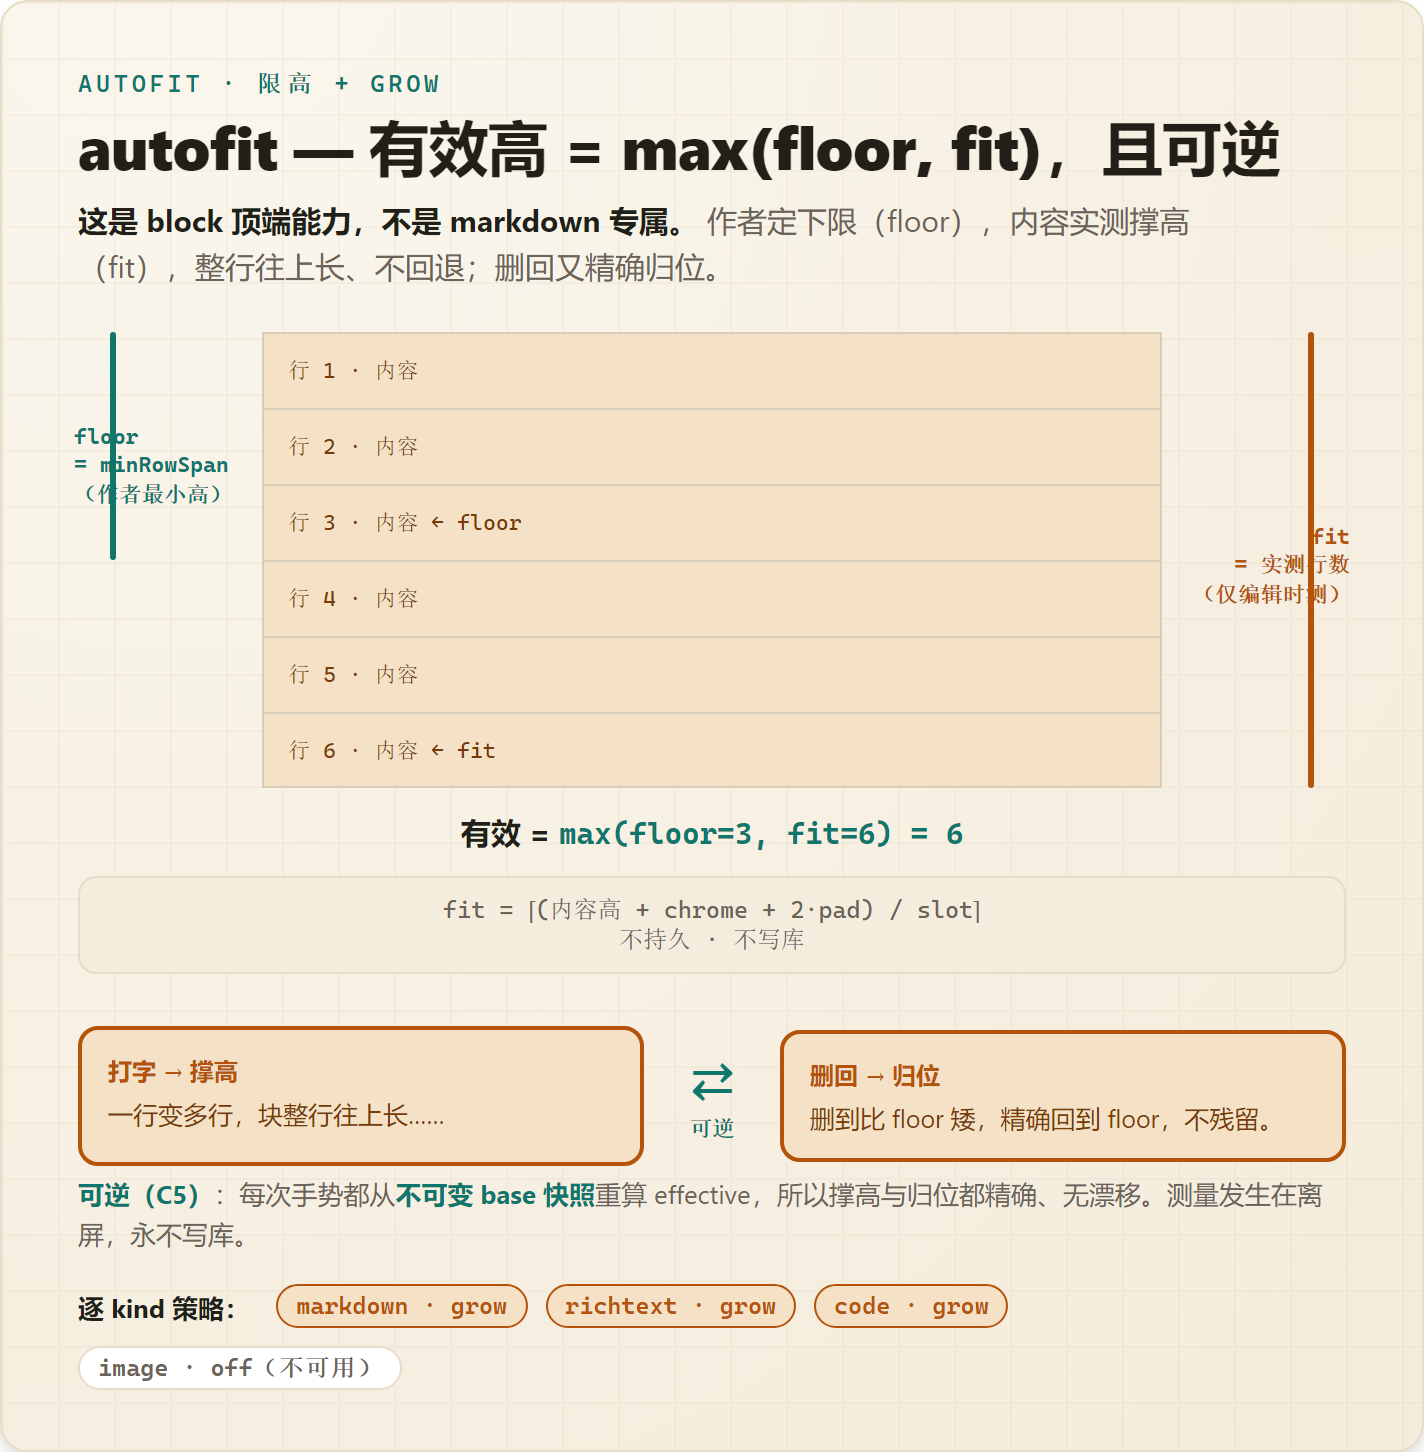
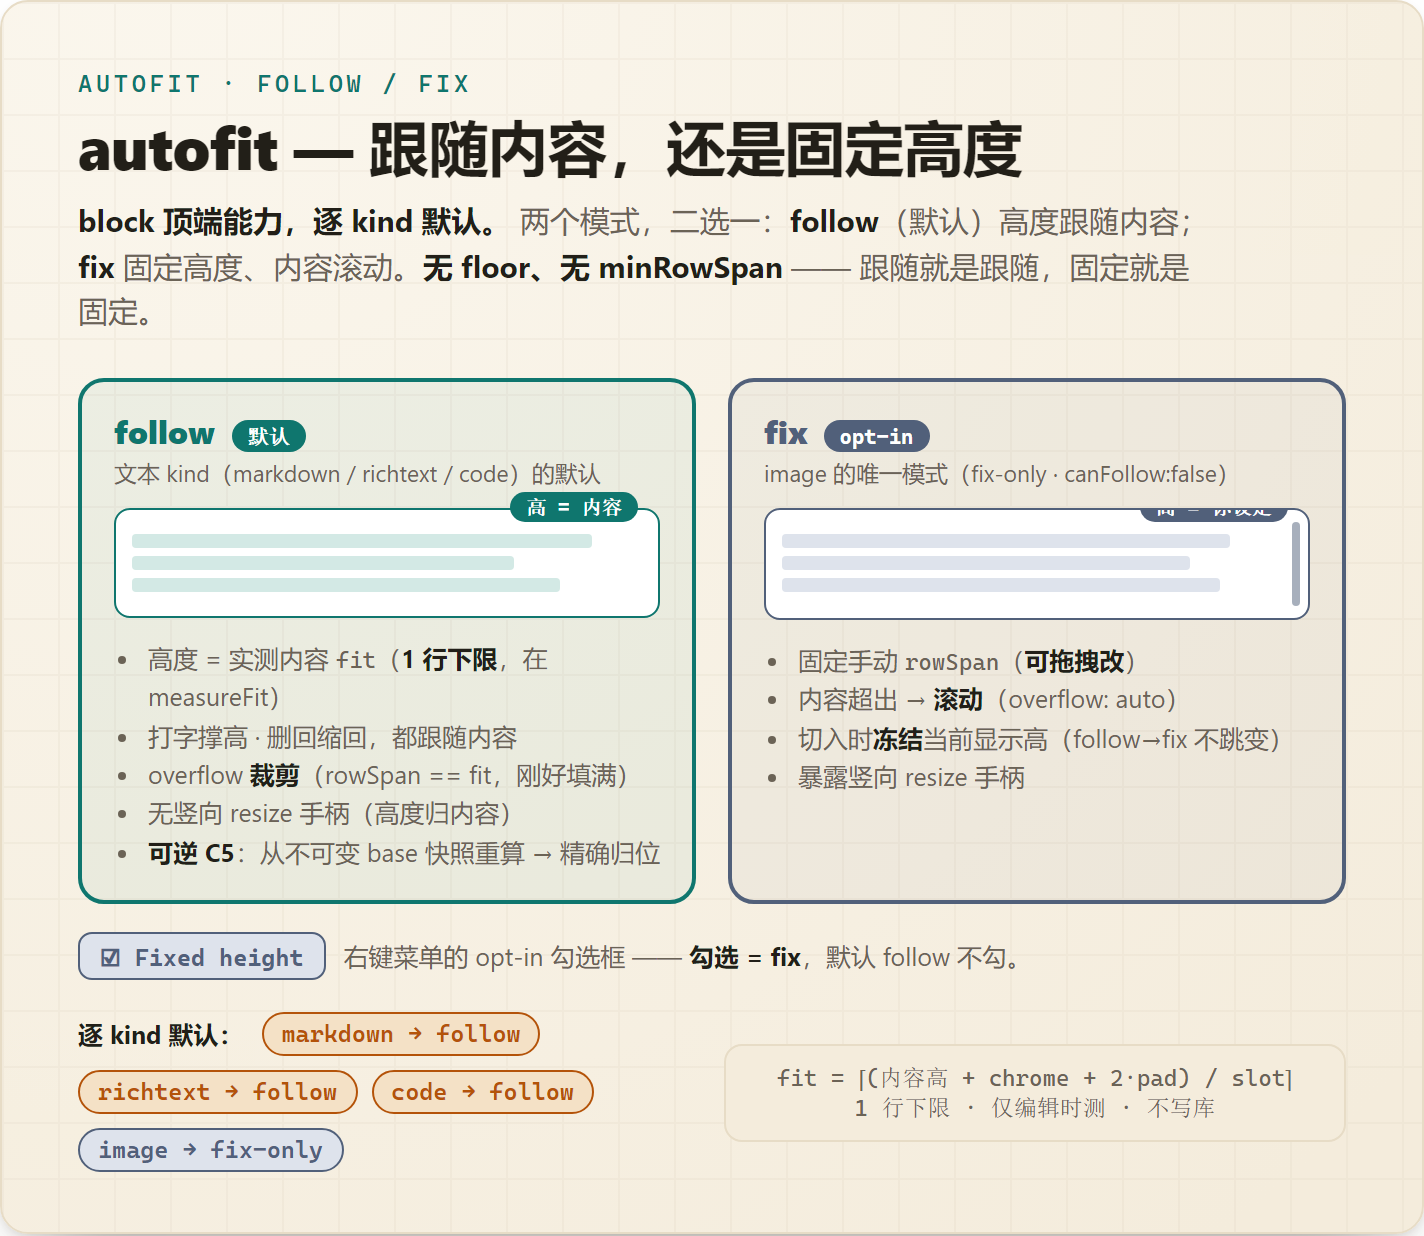
docs(devlib): block-system autofit figure → follow/fix model
The 块系统·抽象逻辑 doc still depicted the deleted floor model
(max(floor,fit) / minRowSpan / image=off · 文本=grow). Redesign figure ③
around the two-mode model: follow (default, height tracks content, 1-row
min, no floor, clips, reversible C5) vs fix (opt-in, fixed manual height,
drag-resizable, scrolls; image fix-only), with the "Fixed height" opt-in
toggle and per-kind defaults. Update the tradeoff figure's autofit row +
sample line + the fig③ alt to match. Re-rendered + reseeded the dev库.

diff --git a/tools/block-doc-art/src/03-autofit.html b/tools/block-doc-art/src/03-autofit.html
@@ -5,79 +5,101 @@
   <link rel="stylesheet" href="../art.css" />
   <style>
     #art { width: 712px; }
-    .stage { display: grid; grid-template-columns: 1fr; gap: 26px; margin-top: 22px; align-items: start; }
+    .modes { display: grid; grid-template-columns: 1fr 1fr; gap: 16px; margin-top: 22px; align-items: stretch; }
+    .mode { border-radius: 13px; border: 2px solid; padding: 14px 16px; display: flex; flex-direction: column; }
+    .mode.follow { border-color: var(--host); background: rgba(15,118,110,.05); }
+    .mode.fix { border-color: var(--canv); background: rgba(81,96,122,.05); }
+    .mh { display: flex; align-items: baseline; gap: 8px; font-weight: 800; font-size: 16px; margin-bottom: 3px; }
+    .mode.follow .mh { color: var(--host); } .mode.fix .mh { color: var(--canv); }
+    .mh .tag { font-family: var(--mono); font-size: 10.5px; font-weight: 700; padding: 2px 8px; border-radius: 999px; }
+    .mode.follow .tag { background: var(--host); color: #fff; } .mode.fix .tag { background: var(--canv); color: #fff; }
+    .msub { font-size: 11.5px; color: var(--ink-soft); margin-bottom: 10px; }
 
-    /* left: a grid-row ruler showing floor / fit / effective */
-    .ruler { position: relative; padding-left: 92px; padding-right: 92px; }
-    .row { height: 38px; border: 1px solid var(--hair); border-bottom: none; background: rgba(255,255,255,.5); display: flex; align-items: center; padding-left: 12px; font-family: var(--mono); font-size: 11px; color: var(--ink-faint); }
-    .row:last-child { border-bottom: 1px solid var(--hair); }
-    .row.filled { background: var(--kind-soft); color: #7a3a06; }
-    .brk { position: absolute; width: 22px; }
-    .brk .line { position: absolute; top: 0; bottom: 0; width: 3px; border-radius: 3px; }
-    .brk .lab { position: absolute; font-family: var(--mono); font-size: 11px; font-weight: 700; white-space: nowrap; }
-    .brk.floor { left: 0; top: 0; height: 114px; }
-    .brk.floor .line { left: 16px; background: var(--host); }
-    .brk.floor .lab { left: -2px; top: 46px; width: 84px; color: var(--host); text-align: left; line-height: 1.3; }
-    .brk.fit { right: 0; top: 0; height: 228px; }
-    .brk.fit .line { right: 16px; background: var(--kind); }
-    .brk.fit .lab { right: -2px; top: 96px; width: 84px; color: var(--kind); text-align: right; line-height: 1.3; }
-    .eff { margin-top: 12px; text-align: center; font-weight: 800; font-size: 15px; color: var(--ink); }
-    .eff .mono { color: var(--host); }
-    .formula { margin-top: 12px; font-family: var(--mono); font-size: 12px; color: var(--ink-soft); text-align: center; background: var(--paper-2); border: 1px solid var(--edge); border-radius: 9px; padding: 9px; }
+    /* schematic block: follow hugs content; fix is a fixed window that scrolls */
+    .demo { border-radius: 8px; padding: 8px; background: #fff; margin-bottom: 11px; position: relative; }
+    .mode.follow .demo { border: 1.5px solid var(--host); }
+    .mode.fix .demo { border: 1.5px solid var(--canv); height: 56px; overflow: hidden; }
+    .ln { height: 7px; border-radius: 2px; margin: 4px 0; }
+    .mode.follow .ln { background: var(--host-soft); }
+    .mode.fix .ln { background: var(--canv-soft); }
+    .demo .badge { position: absolute; top: -9px; right: 10px; font-family: var(--mono); font-size: 10px; font-weight: 700; padding: 2px 8px; border-radius: 999px; }
+    .mode.follow .badge { background: var(--host); color: #fff; }
+    .mode.fix .badge { background: var(--canv); color: #fff; }
+    .mode.fix .demo .scroll { position: absolute; top: 6px; right: 4px; bottom: 6px; width: 4px; border-radius: 3px; background: var(--canv); opacity: .5; }
+    .mode.fix .demo .clip { position: absolute; left: 8px; right: 14px; bottom: 0; height: 13px; background: linear-gradient(to top, #fff, transparent); }
 
-    /* right: reversible grow / shrink */
-    .states { display: flex; flex-direction: column; gap: 14px; }
-    .twin { display: grid; grid-template-columns: 1fr 56px 1fr; align-items: center; gap: 6px; }
-    .blk { border: 2px solid var(--kind); border-radius: 10px; background: var(--kind-soft); padding: 11px 13px; font-size: 12.5px; line-height: 1.5; color: #7a3a06; }
-    .blk.small { height: 70px; overflow: hidden; }
-    .blk .t { font-weight: 800; color: var(--kind); display: block; margin-bottom: 4px; font-size: 12px; }
-    .loop { text-align: center; color: var(--host); font-family: var(--mono); font-size: 11px; font-weight: 700; line-height: 1.3; }
-    .loop .big { font-size: 26px; display: block; }
-    .c5 { margin-top: 4px; font-size: 13px; color: var(--ink-soft); line-height: 1.5; }
-    .c5 b { color: var(--host); }
-    .policy { margin-top: 16px; display: flex; flex-wrap: wrap; gap: 9px; align-items: center; }
-    .policy .h { font-size: 13px; font-weight: 700; margin-right: 4px; }
+    ul.feat { margin: 0; padding-left: 17px; font-size: 12.5px; line-height: 1.55; color: var(--ink-soft); flex: 1; }
+    ul.feat b { color: var(--ink); }
+    ul.feat .mono { font-family: var(--mono); font-size: 11.5px; }
+
+    .strip { margin-top: 16px; display: grid; grid-template-columns: 1fr 1fr; gap: 12px; align-items: center; }
+    .kinds { display: flex; flex-wrap: wrap; gap: 7px; align-items: center; }
+    .kinds .h { font-size: 12.5px; font-weight: 700; margin-right: 2px; }
+    .formula { font-family: var(--mono); font-size: 11.5px; color: var(--ink-soft); background: var(--paper-2); border: 1px solid var(--edge); border-radius: 9px; padding: 9px 12px; text-align: center; }
+    .toggle { margin-top: 14px; display: flex; align-items: center; gap: 9px; font-size: 12.5px; color: var(--ink-soft); }
+    .toggle .box { font-family: var(--mono); font-size: 12px; font-weight: 700; color: var(--canv); border: 1.5px solid var(--canv); background: var(--canv-soft); border-radius: 7px; padding: 3px 10px; }
+    .toggle b { color: var(--ink); }
   </style>
 </head>
 <body>
   <div id="art" class="card">
-    <div class="eyebrow">Autofit · 限高 + grow</div>
-    <h1 class="t">autofit — 有效高 = max(floor, fit)，且可逆</h1>
-    <p class="lede"><b>这是 block 顶端能力，不是 markdown 专属。</b> 作者定下限（floor），内容实测撑高（fit），整行往上长、不回退；删回又精确归位。</p>
+    <div class="eyebrow">Autofit · follow / fix</div>
+    <h1 class="t">autofit — 跟随内容，还是固定高度</h1>
+    <p class="lede"><b>block 顶端能力，逐 kind 默认。</b> 两个模式，二选一：<b>follow</b>（默认）高度跟随内容；<b>fix</b> 固定高度、内容滚动。<b>无 floor、无 minRowSpan</b> —— 跟随就是跟随，固定就是固定。</p>
 
-    <div class="stage">
-      <div>
-        <div class="ruler">
-          <div class="brk floor"><div class="line"></div><div class="lab">floor<br>= minRowSpan<br>（作者最小高）</div></div>
-          <div class="brk fit"><div class="line"></div><div class="lab">fit<br>= 实测行数<br>（仅编辑时测）</div></div>
-          <div class="row filled">行 1 · 内容</div>
-          <div class="row filled">行 2 · 内容</div>
-          <div class="row filled">行 3 · 内容 ← floor</div>
-          <div class="row filled">行 4 · 内容</div>
-          <div class="row filled">行 5 · 内容</div>
-          <div class="row filled">行 6 · 内容 ← fit</div>
+    <div class="modes">
+      <div class="mode follow">
+        <div class="mh">follow <span class="tag">默认</span></div>
+        <div class="msub">文本 kind（markdown / richtext / code）的默认</div>
+        <div class="demo">
+          <span class="badge">高 = 内容</span>
+          <div class="ln" style="width:90%"></div>
+          <div class="ln" style="width:75%"></div>
+          <div class="ln" style="width:84%"></div>
         </div>
-        <div class="eff">有效 = <span class="mono">max(floor=3, fit=6) = 6</span></div>
-        <div class="formula">fit = ⌈(内容高 + chrome + 2·pad) / slot⌉<br>不持久 · 不写库</div>
+        <ul class="feat">
+          <li>高度 = 实测内容 <span class="mono">fit</span>（<b>1 行下限</b>，在 measureFit）</li>
+          <li>打字撑高 · 删回缩回，都跟随内容</li>
+          <li>overflow <b>裁剪</b>（rowSpan == fit，刚好填满）</li>
+          <li>无竖向 resize 手柄（高度归内容）</li>
+          <li><b>可逆 C5</b>：从不可变 base 快照重算 → 精确归位</li>
+        </ul>
       </div>
 
-      <div>
-        <div class="states">
-          <div class="twin">
-            <div class="blk small"><span class="t">打字 → 撑高</span>一行变多行，块整行往上长……</div>
-            <div class="loop"><span class="big">⇄</span>可逆</div>
-            <div class="blk"><span class="t">删回 → 归位</span>删到比 floor 矮，精确回到 floor，不残留。</div>
-          </div>
+      <div class="mode fix">
+        <div class="mh">fix <span class="tag">opt-in</span></div>
+        <div class="msub">image 的唯一模式（fix-only · canFollow:false）</div>
+        <div class="demo">
+          <span class="badge">高 = 你设定</span>
+          <span class="scroll"></span>
+          <div class="ln" style="width:88%"></div>
+          <div class="ln" style="width:80%"></div>
+          <div class="ln" style="width:86%"></div>
+          <span class="clip"></span>
         </div>
-        <div class="c5"><b>可逆（C5）</b>：每次手势都从<b>不可变 base 快照</b>重算 effective，所以撑高与归位都精确、无漂移。测量发生在离屏，永不写库。</div>
-        <div class="policy">
-          <span class="h">逐 kind 策略：</span>
-          <span class="chip kind">markdown · grow</span>
-          <span class="chip kind">richtext · grow</span>
-          <span class="chip kind">code · grow</span>
-          <span class="chip" style="color:var(--ink-soft)">image · off（不可用）</span>
-        </div>
+        <ul class="feat">
+          <li>固定手动 <span class="mono">rowSpan</span>（<b>可拖拽改</b>）</li>
+          <li>内容超出 → <b>滚动</b>（overflow: auto）</li>
+          <li>切入时<b>冻结</b>当前显示高（follow→fix 不跳变）</li>
+          <li>暴露竖向 resize 手柄</li>
+        </ul>
       </div>
+    </div>
+
+    <div class="toggle">
+      <span class="box">☑ Fixed height</span>
+      <span>右键菜单的 opt-in 勾选框 —— <b>勾选 = fix</b>，默认 follow 不勾。</span>
+    </div>
+
+    <div class="strip">
+      <div class="kinds">
+        <span class="h">逐 kind 默认：</span>
+        <span class="chip kind">markdown → follow</span>
+        <span class="chip kind">richtext → follow</span>
+        <span class="chip kind">code → follow</span>
+        <span class="chip canv">image → fix-only</span>
+      </div>
+      <div class="formula">fit = ⌈(内容高 + chrome + 2·pad) / slot⌉<br>1 行下限 · 仅编辑时测 · 不写库</div>
     </div>
   </div>
 </body>

diff --git a/tools/block-doc-art/src/06-tradeoff.html b/tools/block-doc-art/src/06-tradeoff.html
@@ -48,7 +48,7 @@
         <div class="dh">后 · host 持盒 + 类型护栏<br>量准 → 撑成 6 行</div>
         <div class="full">
           <div class="line">## 标题：块系统的盒</div>
-          <div class="line">- floor / fit / effective</div>
+          <div class="line">- autofit：follow / fix 两模</div>
           <div class="line">- 可逆 C5 快照重算</div>
           <div class="line">- 离屏 AREA / CONTENT</div>
           <div class="line">- 类型即护栏</div>
@@ -67,7 +67,7 @@
       <div class="pr">
         <div class="topic">autofit 适用面</div>
         <div class="bef">两个 <span class="mono">kind==='markdown'</span> 闸门 + markdown 专属 seeding。</div>
-        <div class="aft">机制本就 kind-agnostic → 解闸 + <span class="mono">BlockKindModule.autofit</span>（image=false · 文本=grow）。</div>
+        <div class="aft">机制本就 kind-agnostic → 解闸 + 两模 <span class="mono">autofit:{default,canFollow}</span>（文本默认 follow · image fix-only）。</div>
       </div>
       <div class="pr">
         <div class="topic">测量</div>

diff --git a/apps/server/scripts/seed-block-system-doc.ts b/apps/server/scripts/seed-block-system-doc.ts
@@ -99,7 +99,7 @@ function abstractBlocks(H: Art, implId: string): SeedBlock[] {
     im('a-fig2', 0, 16, 12, 15, H.composition,
       '图②组合而非继承：kind（内容）/ host（盒与能力）/ theme（材质）三个薄插件汇入同一个 host 盒；接口 + registry，无基类。'),
     im('a-fig3', 0, 31, 12, 12, H.autofit,
-      '图③autofit：有效高 = max(floor, fit)，从不可变 base 快照重算所以可逆（C5）；逐 kind 策略 image=off、文本(md/rich/code)=grow。'),
+      '图③autofit：两模 follow（默认，文本 kind，高度跟随内容、1 行下限、无 floor、可逆 C5）/ fix（固定高、内容滚动、可拖拽，image 唯一模式）。'),
 
     b('a-close', 0, 43, 12, 4,
       '**代码地图** — ' +